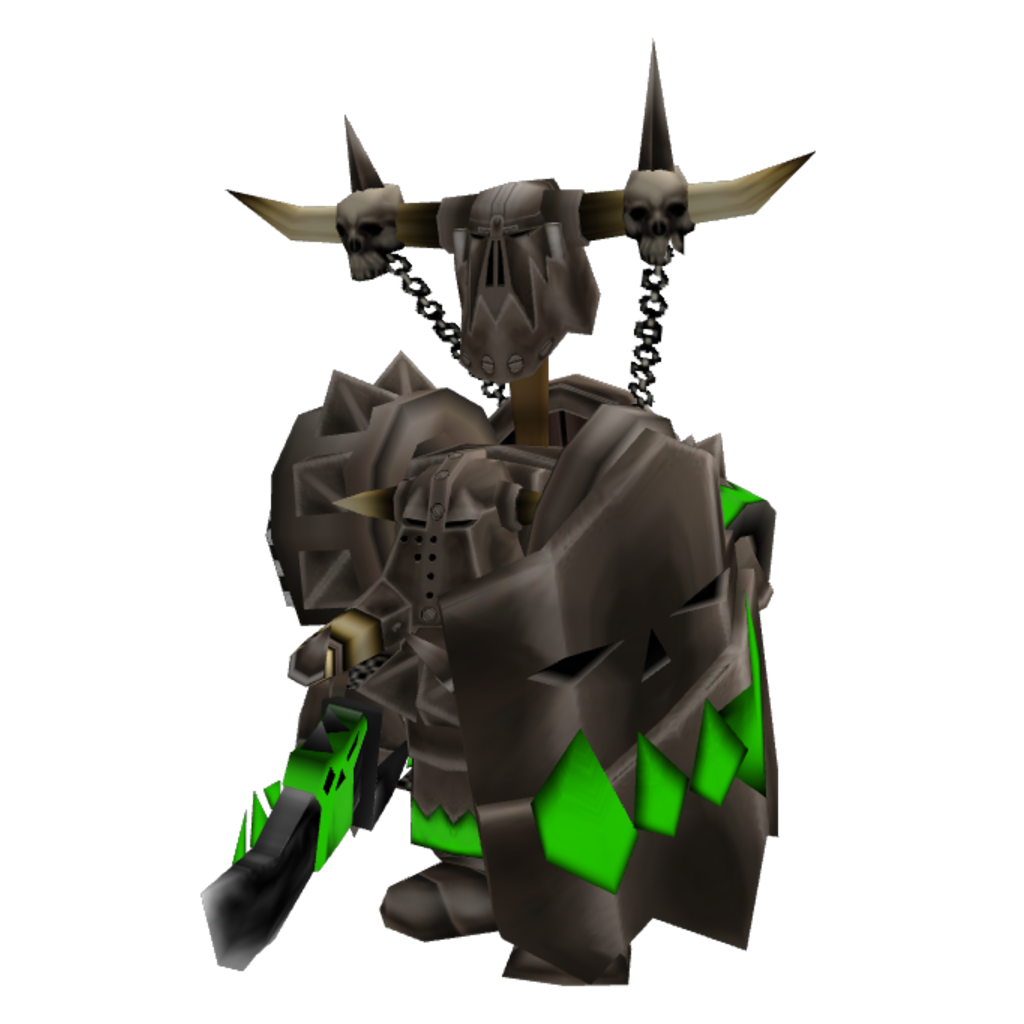
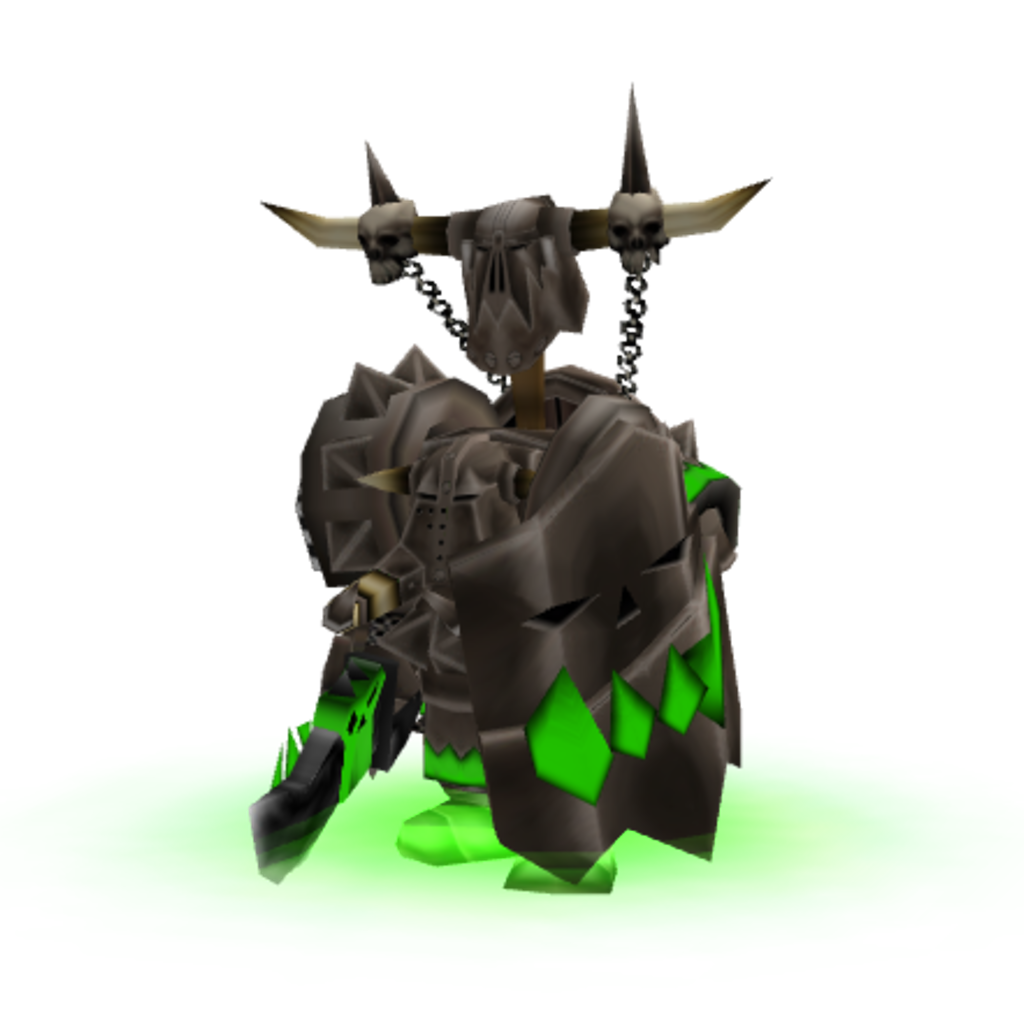
Render Black Orc Warboss (Hero) portrait with its hero glow
The Hero card reused the Warboss picture; it is now captured from the
Hero model, keeping the green hero glow. Image cache key bumped.

Claude-Session: https://claude.ai/code/session_01QFG8SimT88abGkLgQuWvt6

Changed region(s): [[0.125, 0.0312, 0.875, 0.9688]]

diff --git a/app.js b/app.js
@@ -25,7 +25,7 @@ const isGroupLead=row=>{const group=groupOf(row.id);return !group||liveVariants(
 function groupCard(group,lead){const variants=liveVariants(group),army=armies.find(a=>a.id===lead.army),href=v=>`/model/${v.row.slug||v.id}/`;const data=escape(JSON.stringify(variants.map(v=>({href:href(v),src:thumbnail(v.id),label:v.label,name:v.row.name}))));return `<article class="model-card slab has-variants" data-variants="${data}" data-index="0"><div class="variant-stage"><a class="model-open" href="${href(variants[0])}" aria-label="Open ${escape(variants[0].row.name)}"><div class="card-portrait" style="--aura:${army.colour}"><img class="variant-shot" src="${thumbnail(variants[0].id)}" alt="${escape(variants[0].row.name)}">${modelUpdateTagMarkup(lead.id)}</div></a><button type="button" class="variant-arrow prev" data-step="-1" aria-label="Previous variant">‹</button><button type="button" class="variant-arrow next" data-step="1" aria-label="Next variant">›</button><div class="variant-dots">${variants.map((v,i)=>`<button type="button" data-pick="${i}" aria-label="${escape(v.label)}" title="${escape(v.label)}" aria-pressed="${i===0}"></button>`).join('')}</div></div><div class="card-text"><a class="card-name" href="${href(variants[0])}">${escape(group.name)}</a><small class="card-author">By: ${authorLinks(lead)}</small></div></article>`;}
 function mountVariantCards(root){root.onclick=event=>{const button=event.target.closest('[data-step],[data-pick]'),card=button?.closest('[data-variants]');if(!card)return;event.preventDefault();const variants=JSON.parse(card.dataset.variants),index=button.dataset.pick!==undefined?+button.dataset.pick:(+card.dataset.index+ +button.dataset.step+variants.length)%variants.length,v=variants[index];card.dataset.index=index;const shot=card.querySelector('.variant-shot');shot.src=v.src;shot.alt=v.name;for(const link of card.querySelectorAll('.model-open,.card-name'))link.href=v.href;card.querySelector('.model-open').setAttribute('aria-label','Open '+v.name);for(const pick of card.querySelectorAll('[data-pick]'))pick.setAttribute('aria-pressed',String(+pick.dataset.pick===index));};}
 function variantTabs(row){const group=groupOf(row.id),variants=group?liveVariants(group):[];if(variants.length<2)return '';return `<div class="variant-tabs" role="tablist" aria-label="${escape(group.name)} variants">${variants.map(v=>`<a role="tab" href="/model/${v.row.slug||v.id}/" data-variant="${escape(v.row.slug||v.id)}" aria-selected="${v.id===row.id}"${v.id===row.id?' tabindex="0"':' tabindex="-1"'}><img src="${thumbnail(v.id)}" alt="" aria-hidden="true">${escape(v.label)}</a>`).join('')}</div>`;}
-const thumbnail=id=>`thumbs/unit-${id}.png?v=20261012-nurgle-champion-04`;
+const thumbnail=id=>`thumbs/unit-${id}.png?v=20261013-warboss-hero-glow`;
 const authorLinks=row=>row.authors.map(author=>`<a href="${escape(author.url)}" target="_blank" rel="noopener noreferrer">${escape(author.name)}</a>`).join(', ');
 function creditText(row,text){
  const links=(row.creditLinks||[]).filter(link=>/^https?:\/\//.test(link.url)).sort((a,b)=>b.text.length-a.text.length);

diff --git a/index.html b/index.html
@@ -19,4 +19,4 @@
     <image href="ui/lowpolyworks-cleaned-source.png" width="1695" height="951" mask="url(#lowpolyworks-character-mask)"/>
   </g>
   <image class="lowpolyworks-lettering" href="ui/lowpolyworks-header-source.png" width="1695" height="951" mask="url(#lowpolyworks-type-mask)"/>
-</svg></a><nav aria-label="Main menu"><a class="project-brand mdlxl-brand" href="/mdlxl/" aria-label="MDLxL"><img class="mdlxl-brand-icon" src="ui/mdlxl-icon.png" alt="" width="48" height="48"><span class="mdlxl-wordmark" aria-hidden="true">MDL<span>x</span>L</span></a><a class="project-brand warhammercraft-brand" href="#project/warhammercraft" aria-label="WarhammerCraft"><span class="warhammercraft-wordmark" aria-hidden="true"><img src="ui/warhammercraft-header-source.png" alt="" width="1400" height="300"></span></a></nav></header><div class="site-shell"><aside class="side-menu side-left"><nav id="army-navigation" aria-label="Army navigation"></nav></aside><main id="app" aria-live="polite"><p class="loading">Loading…</p></main><aside class="side-menu side-right" id="catalogue-summary" aria-label="Catalogue information"></aside></div><footer><span>LOWPOLYWORKS</span><div><a href="#subscribe">Model notifications</a><a href="#acknowledgements">Acknowledgements</a></div></footer><script type="module" src="app.js?v=20261013-variant-cards"></script></body></html>
+</svg></a><nav aria-label="Main menu"><a class="project-brand mdlxl-brand" href="/mdlxl/" aria-label="MDLxL"><img class="mdlxl-brand-icon" src="ui/mdlxl-icon.png" alt="" width="48" height="48"><span class="mdlxl-wordmark" aria-hidden="true">MDL<span>x</span>L</span></a><a class="project-brand warhammercraft-brand" href="#project/warhammercraft" aria-label="WarhammerCraft"><span class="warhammercraft-wordmark" aria-hidden="true"><img src="ui/warhammercraft-header-source.png" alt="" width="1400" height="300"></span></a></nav></header><div class="site-shell"><aside class="side-menu side-left"><nav id="army-navigation" aria-label="Army navigation"></nav></aside><main id="app" aria-live="polite"><p class="loading">Loading…</p></main><aside class="side-menu side-right" id="catalogue-summary" aria-label="Catalogue information"></aside></div><footer><span>LOWPOLYWORKS</span><div><a href="#subscribe">Model notifications</a><a href="#acknowledgements">Acknowledgements</a></div></footer><script type="module" src="app.js?v=20261013-warboss-hero-glow"></script></body></html>

diff --git a/mdlxl/index.html b/mdlxl/index.html
@@ -27,4 +27,4 @@
     <image href="ui/lowpolyworks-cleaned-source.png" width="1695" height="951" mask="url(#lowpolyworks-character-mask)"/>
   </g>
   <image class="lowpolyworks-lettering" href="ui/lowpolyworks-header-source.png" width="1695" height="951" mask="url(#lowpolyworks-type-mask)"/>
-</svg></a><nav aria-label="Main menu"><a class="project-brand mdlxl-brand" href="/mdlxl/" aria-label="MDLxL"><img class="mdlxl-brand-icon" src="ui/mdlxl-icon.png" alt="" width="48" height="48"><span class="mdlxl-wordmark" aria-hidden="true">MDL<span>x</span>L</span></a><a class="project-brand warhammercraft-brand" href="#project/warhammercraft" aria-label="WarhammerCraft"><span class="warhammercraft-wordmark" aria-hidden="true"><img src="ui/warhammercraft-header-source.png" alt="" width="1400" height="300"></span></a></nav></header><div class="site-shell"><aside class="side-menu side-left"><nav id="army-navigation" aria-label="Army navigation"></nav></aside><main id="app" aria-live="polite"><p class="loading">Loading…</p></main><aside class="side-menu side-right" id="catalogue-summary" aria-label="Catalogue information"></aside></div><footer><span>LOWPOLYWORKS</span><div><a href="#subscribe">Model notifications</a><a href="#acknowledgements">Acknowledgements</a></div></footer><script type="module" src="app.js?v=20261013-variant-cards"></script></body></html>
+</svg></a><nav aria-label="Main menu"><a class="project-brand mdlxl-brand" href="/mdlxl/" aria-label="MDLxL"><img class="mdlxl-brand-icon" src="ui/mdlxl-icon.png" alt="" width="48" height="48"><span class="mdlxl-wordmark" aria-hidden="true">MDL<span>x</span>L</span></a><a class="project-brand warhammercraft-brand" href="#project/warhammercraft" aria-label="WarhammerCraft"><span class="warhammercraft-wordmark" aria-hidden="true"><img src="ui/warhammercraft-header-source.png" alt="" width="1400" height="300"></span></a></nav></header><div class="site-shell"><aside class="side-menu side-left"><nav id="army-navigation" aria-label="Army navigation"></nav></aside><main id="app" aria-live="polite"><p class="loading">Loading…</p></main><aside class="side-menu side-right" id="catalogue-summary" aria-label="Catalogue information"></aside></div><footer><span>LOWPOLYWORKS</span><div><a href="#subscribe">Model notifications</a><a href="#acknowledgements">Acknowledgements</a></div></footer><script type="module" src="app.js?v=20261013-warboss-hero-glow"></script></body></html>

diff --git a/model/aspiring/index.html b/model/aspiring/index.html
@@ -34,4 +34,4 @@
     <image href="ui/lowpolyworks-cleaned-source.png" width="1695" height="951" mask="url(#lowpolyworks-character-mask)"/>
   </g>
   <image class="lowpolyworks-lettering" href="ui/lowpolyworks-header-source.png" width="1695" height="951" mask="url(#lowpolyworks-type-mask)"/>
-</svg></a><nav aria-label="Main menu"><a class="project-brand mdlxl-brand" href="/mdlxl/" aria-label="MDLxL"><img class="mdlxl-brand-icon" src="ui/mdlxl-icon.png" alt="" width="48" height="48"><span class="mdlxl-wordmark" aria-hidden="true">MDL<span>x</span>L</span></a><a class="project-brand warhammercraft-brand" href="#project/warhammercraft" aria-label="WarhammerCraft"><span class="warhammercraft-wordmark" aria-hidden="true"><img src="ui/warhammercraft-header-source.png" alt="" width="1400" height="300"></span></a></nav></header><div class="site-shell"><aside class="side-menu side-left"><nav id="army-navigation" aria-label="Army navigation"></nav></aside><main id="app" aria-live="polite"><p class="loading">Loading…</p></main><aside class="side-menu side-right" id="catalogue-summary" aria-label="Catalogue information"></aside></div><footer><span>LOWPOLYWORKS</span><div><a href="#subscribe">Model notifications</a><a href="#acknowledgements">Acknowledgements</a></div></footer><script type="module" src="app.js?v=20261013-variant-cards"></script></body></html>
+</svg></a><nav aria-label="Main menu"><a class="project-brand mdlxl-brand" href="/mdlxl/" aria-label="MDLxL"><img class="mdlxl-brand-icon" src="ui/mdlxl-icon.png" alt="" width="48" height="48"><span class="mdlxl-wordmark" aria-hidden="true">MDL<span>x</span>L</span></a><a class="project-brand warhammercraft-brand" href="#project/warhammercraft" aria-label="WarhammerCraft"><span class="warhammercraft-wordmark" aria-hidden="true"><img src="ui/warhammercraft-header-source.png" alt="" width="1400" height="300"></span></a></nav></header><div class="site-shell"><aside class="side-menu side-left"><nav id="army-navigation" aria-label="Army navigation"></nav></aside><main id="app" aria-live="polite"><p class="loading">Loading…</p></main><aside class="side-menu side-right" id="catalogue-summary" aria-label="Catalogue information"></aside></div><footer><span>LOWPOLYWORKS</span><div><a href="#subscribe">Model notifications</a><a href="#acknowledgements">Acknowledgements</a></div></footer><script type="module" src="app.js?v=20261013-warboss-hero-glow"></script></body></html>

diff --git a/model/blood-dragon/index.html b/model/blood-dragon/index.html
@@ -34,4 +34,4 @@
     <image href="ui/lowpolyworks-cleaned-source.png" width="1695" height="951" mask="url(#lowpolyworks-character-mask)"/>
   </g>
   <image class="lowpolyworks-lettering" href="ui/lowpolyworks-header-source.png" width="1695" height="951" mask="url(#lowpolyworks-type-mask)"/>
-</svg></a><nav aria-label="Main menu"><a class="project-brand mdlxl-brand" href="/mdlxl/" aria-label="MDLxL"><img class="mdlxl-brand-icon" src="ui/mdlxl-icon.png" alt="" width="48" height="48"><span class="mdlxl-wordmark" aria-hidden="true">MDL<span>x</span>L</span></a><a class="project-brand warhammercraft-brand" href="#project/warhammercraft" aria-label="WarhammerCraft"><span class="warhammercraft-wordmark" aria-hidden="true"><img src="ui/warhammercraft-header-source.png" alt="" width="1400" height="300"></span></a></nav></header><div class="site-shell"><aside class="side-menu side-left"><nav id="army-navigation" aria-label="Army navigation"></nav></aside><main id="app" aria-live="polite"><p class="loading">Loading…</p></main><aside class="side-menu side-right" id="catalogue-summary" aria-label="Catalogue information"></aside></div><footer><span>LOWPOLYWORKS</span><div><a href="#subscribe">Model notifications</a><a href="#acknowledgements">Acknowledgements</a></div></footer><script type="module" src="app.js?v=20261013-variant-cards"></script></body></html>
+</svg></a><nav aria-label="Main menu"><a class="project-brand mdlxl-brand" href="/mdlxl/" aria-label="MDLxL"><img class="mdlxl-brand-icon" src="ui/mdlxl-icon.png" alt="" width="48" height="48"><span class="mdlxl-wordmark" aria-hidden="true">MDL<span>x</span>L</span></a><a class="project-brand warhammercraft-brand" href="#project/warhammercraft" aria-label="WarhammerCraft"><span class="warhammercraft-wordmark" aria-hidden="true"><img src="ui/warhammercraft-header-source.png" alt="" width="1400" height="300"></span></a></nav></header><div class="site-shell"><aside class="side-menu side-left"><nav id="army-navigation" aria-label="Army navigation"></nav></aside><main id="app" aria-live="polite"><p class="loading">Loading…</p></main><aside class="side-menu side-right" id="catalogue-summary" aria-label="Catalogue information"></aside></div><footer><span>LOWPOLYWORKS</span><div><a href="#subscribe">Model notifications</a><a href="#acknowledgements">Acknowledgements</a></div></footer><script type="module" src="app.js?v=20261013-warboss-hero-glow"></script></body></html>

diff --git a/model/bretonnian-archer/index.html b/model/bretonnian-archer/index.html
@@ -34,4 +34,4 @@
     <image href="ui/lowpolyworks-cleaned-source.png" width="1695" height="951" mask="url(#lowpolyworks-character-mask)"/>
   </g>
   <image class="lowpolyworks-lettering" href="ui/lowpolyworks-header-source.png" width="1695" height="951" mask="url(#lowpolyworks-type-mask)"/>
-</svg></a><nav aria-label="Main menu"><a class="project-brand mdlxl-brand" href="/mdlxl/" aria-label="MDLxL"><img class="mdlxl-brand-icon" src="ui/mdlxl-icon.png" alt="" width="48" height="48"><span class="mdlxl-wordmark" aria-hidden="true">MDL<span>x</span>L</span></a><a class="project-brand warhammercraft-brand" href="#project/warhammercraft" aria-label="WarhammerCraft"><span class="warhammercraft-wordmark" aria-hidden="true"><img src="ui/warhammercraft-header-source.png" alt="" width="1400" height="300"></span></a></nav></header><div class="site-shell"><aside class="side-menu side-left"><nav id="army-navigation" aria-label="Army navigation"></nav></aside><main id="app" aria-live="polite"><p class="loading">Loading…</p></main><aside class="side-menu side-right" id="catalogue-summary" aria-label="Catalogue information"></aside></div><footer><span>LOWPOLYWORKS</span><div><a href="#subscribe">Model notifications</a><a href="#acknowledgements">Acknowledgements</a></div></footer><script type="module" src="app.js?v=20261013-variant-cards"></script></body></html>
+</svg></a><nav aria-label="Main menu"><a class="project-brand mdlxl-brand" href="/mdlxl/" aria-label="MDLxL"><img class="mdlxl-brand-icon" src="ui/mdlxl-icon.png" alt="" width="48" height="48"><span class="mdlxl-wordmark" aria-hidden="true">MDL<span>x</span>L</span></a><a class="project-brand warhammercraft-brand" href="#project/warhammercraft" aria-label="WarhammerCraft"><span class="warhammercraft-wordmark" aria-hidden="true"><img src="ui/warhammercraft-header-source.png" alt="" width="1400" height="300"></span></a></nav></header><div class="site-shell"><aside class="side-menu side-left"><nav id="army-navigation" aria-label="Army navigation"></nav></aside><main id="app" aria-live="polite"><p class="loading">Loading…</p></main><aside class="side-menu side-right" id="catalogue-summary" aria-label="Catalogue information"></aside></div><footer><span>LOWPOLYWORKS</span><div><a href="#subscribe">Model notifications</a><a href="#acknowledgements">Acknowledgements</a></div></footer><script type="module" src="app.js?v=20261013-warboss-hero-glow"></script></body></html>

diff --git a/model/bretonnian-pikeman/index.html b/model/bretonnian-pikeman/index.html
@@ -34,4 +34,4 @@
     <image href="ui/lowpolyworks-cleaned-source.png" width="1695" height="951" mask="url(#lowpolyworks-character-mask)"/>
   </g>
   <image class="lowpolyworks-lettering" href="ui/lowpolyworks-header-source.png" width="1695" height="951" mask="url(#lowpolyworks-type-mask)"/>
-</svg></a><nav aria-label="Main menu"><a class="project-brand mdlxl-brand" href="/mdlxl/" aria-label="MDLxL"><img class="mdlxl-brand-icon" src="ui/mdlxl-icon.png" alt="" width="48" height="48"><span class="mdlxl-wordmark" aria-hidden="true">MDL<span>x</span>L</span></a><a class="project-brand warhammercraft-brand" href="#project/warhammercraft" aria-label="WarhammerCraft"><span class="warhammercraft-wordmark" aria-hidden="true"><img src="ui/warhammercraft-header-source.png" alt="" width="1400" height="300"></span></a></nav></header><div class="site-shell"><aside class="side-menu side-left"><nav id="army-navigation" aria-label="Army navigation"></nav></aside><main id="app" aria-live="polite"><p class="loading">Loading…</p></main><aside class="side-menu side-right" id="catalogue-summary" aria-label="Catalogue information"></aside></div><footer><span>LOWPOLYWORKS</span><div><a href="#subscribe">Model notifications</a><a href="#acknowledgements">Acknowledgements</a></div></footer><script type="module" src="app.js?v=20261013-variant-cards"></script></body></html>
+</svg></a><nav aria-label="Main menu"><a class="project-brand mdlxl-brand" href="/mdlxl/" aria-label="MDLxL"><img class="mdlxl-brand-icon" src="ui/mdlxl-icon.png" alt="" width="48" height="48"><span class="mdlxl-wordmark" aria-hidden="true">MDL<span>x</span>L</span></a><a class="project-brand warhammercraft-brand" href="#project/warhammercraft" aria-label="WarhammerCraft"><span class="warhammercraft-wordmark" aria-hidden="true"><img src="ui/warhammercraft-header-source.png" alt="" width="1400" height="300"></span></a></nav></header><div class="site-shell"><aside class="side-menu side-left"><nav id="army-navigation" aria-label="Army navigation"></nav></aside><main id="app" aria-live="polite"><p class="loading">Loading…</p></main><aside class="side-menu side-right" id="catalogue-summary" aria-label="Catalogue information"></aside></div><footer><span>LOWPOLYWORKS</span><div><a href="#subscribe">Model notifications</a><a href="#acknowledgements">Acknowledgements</a></div></footer><script type="module" src="app.js?v=20261013-warboss-hero-glow"></script></body></html>

diff --git a/model/bretonnian-swordsman/index.html b/model/bretonnian-swordsman/index.html
@@ -34,4 +34,4 @@
     <image href="ui/lowpolyworks-cleaned-source.png" width="1695" height="951" mask="url(#lowpolyworks-character-mask)"/>
   </g>
   <image class="lowpolyworks-lettering" href="ui/lowpolyworks-header-source.png" width="1695" height="951" mask="url(#lowpolyworks-type-mask)"/>
-</svg></a><nav aria-label="Main menu"><a class="project-brand mdlxl-brand" href="/mdlxl/" aria-label="MDLxL"><img class="mdlxl-brand-icon" src="ui/mdlxl-icon.png" alt="" width="48" height="48"><span class="mdlxl-wordmark" aria-hidden="true">MDL<span>x</span>L</span></a><a class="project-brand warhammercraft-brand" href="#project/warhammercraft" aria-label="WarhammerCraft"><span class="warhammercraft-wordmark" aria-hidden="true"><img src="ui/warhammercraft-header-source.png" alt="" width="1400" height="300"></span></a></nav></header><div class="site-shell"><aside class="side-menu side-left"><nav id="army-navigation" aria-label="Army navigation"></nav></aside><main id="app" aria-live="polite"><p class="loading">Loading…</p></main><aside class="side-menu side-right" id="catalogue-summary" aria-label="Catalogue information"></aside></div><footer><span>LOWPOLYWORKS</span><div><a href="#subscribe">Model notifications</a><a href="#acknowledgements">Acknowledgements</a></div></footer><script type="module" src="app.js?v=20261013-variant-cards"></script></body></html>
+</svg></a><nav aria-label="Main menu"><a class="project-brand mdlxl-brand" href="/mdlxl/" aria-label="MDLxL"><img class="mdlxl-brand-icon" src="ui/mdlxl-icon.png" alt="" width="48" height="48"><span class="mdlxl-wordmark" aria-hidden="true">MDL<span>x</span>L</span></a><a class="project-brand warhammercraft-brand" href="#project/warhammercraft" aria-label="WarhammerCraft"><span class="warhammercraft-wordmark" aria-hidden="true"><img src="ui/warhammercraft-header-source.png" alt="" width="1400" height="300"></span></a></nav></header><div class="site-shell"><aside class="side-menu side-left"><nav id="army-navigation" aria-label="Army navigation"></nav></aside><main id="app" aria-live="polite"><p class="loading">Loading…</p></main><aside class="side-menu side-right" id="catalogue-summary" aria-label="Catalogue information"></aside></div><footer><span>LOWPOLYWORKS</span><div><a href="#subscribe">Model notifications</a><a href="#acknowledgements">Acknowledgements</a></div></footer><script type="module" src="app.js?v=20261013-warboss-hero-glow"></script></body></html>

diff --git a/model/chaos-ogre/index.html b/model/chaos-ogre/index.html
@@ -34,4 +34,4 @@
     <image href="ui/lowpolyworks-cleaned-source.png" width="1695" height="951" mask="url(#lowpolyworks-character-mask)"/>
   </g>
   <image class="lowpolyworks-lettering" href="ui/lowpolyworks-header-source.png" width="1695" height="951" mask="url(#lowpolyworks-type-mask)"/>
-</svg></a><nav aria-label="Main menu"><a class="project-brand mdlxl-brand" href="/mdlxl/" aria-label="MDLxL"><img class="mdlxl-brand-icon" src="ui/mdlxl-icon.png" alt="" width="48" height="48"><span class="mdlxl-wordmark" aria-hidden="true">MDL<span>x</span>L</span></a><a class="project-brand warhammercraft-brand" href="#project/warhammercraft" aria-label="WarhammerCraft"><span class="warhammercraft-wordmark" aria-hidden="true"><img src="ui/warhammercraft-header-source.png" alt="" width="1400" height="300"></span></a></nav></header><div class="site-shell"><aside class="side-menu side-left"><nav id="army-navigation" aria-label="Army navigation"></nav></aside><main id="app" aria-live="polite"><p class="loading">Loading…</p></main><aside class="side-menu side-right" id="catalogue-summary" aria-label="Catalogue information"></aside></div><footer><span>LOWPOLYWORKS</span><div><a href="#subscribe">Model notifications</a><a href="#acknowledgements">Acknowledgements</a></div></footer><script type="module" src="app.js?v=20261013-variant-cards"></script></body></html>
+</svg></a><nav aria-label="Main menu"><a class="project-brand mdlxl-brand" href="/mdlxl/" aria-label="MDLxL"><img class="mdlxl-brand-icon" src="ui/mdlxl-icon.png" alt="" width="48" height="48"><span class="mdlxl-wordmark" aria-hidden="true">MDL<span>x</span>L</span></a><a class="project-brand warhammercraft-brand" href="#project/warhammercraft" aria-label="WarhammerCraft"><span class="warhammercraft-wordmark" aria-hidden="true"><img src="ui/warhammercraft-header-source.png" alt="" width="1400" height="300"></span></a></nav></header><div class="site-shell"><aside class="side-menu side-left"><nav id="army-navigation" aria-label="Army navigation"></nav></aside><main id="app" aria-live="polite"><p class="loading">Loading…</p></main><aside class="side-menu side-right" id="catalogue-summary" aria-label="Catalogue information"></aside></div><footer><span>LOWPOLYWORKS</span><div><a href="#subscribe">Model notifications</a><a href="#acknowledgements">Acknowledgements</a></div></footer><script type="module" src="app.js?v=20261013-warboss-hero-glow"></script></body></html>

diff --git a/model/elector-count/index.html b/model/elector-count/index.html
@@ -34,4 +34,4 @@
     <image href="ui/lowpolyworks-cleaned-source.png" width="1695" height="951" mask="url(#lowpolyworks-character-mask)"/>
   </g>
   <image class="lowpolyworks-lettering" href="ui/lowpolyworks-header-source.png" width="1695" height="951" mask="url(#lowpolyworks-type-mask)"/>
-</svg></a><nav aria-label="Main menu"><a class="project-brand mdlxl-brand" href="/mdlxl/" aria-label="MDLxL"><img class="mdlxl-brand-icon" src="ui/mdlxl-icon.png" alt="" width="48" height="48"><span class="mdlxl-wordmark" aria-hidden="true">MDL<span>x</span>L</span></a><a class="project-brand warhammercraft-brand" href="#project/warhammercraft" aria-label="WarhammerCraft"><span class="warhammercraft-wordmark" aria-hidden="true"><img src="ui/warhammercraft-header-source.png" alt="" width="1400" height="300"></span></a></nav></header><div class="site-shell"><aside class="side-menu side-left"><nav id="army-navigation" aria-label="Army navigation"></nav></aside><main id="app" aria-live="polite"><p class="loading">Loading…</p></main><aside class="side-menu side-right" id="catalogue-summary" aria-label="Catalogue information"></aside></div><footer><span>LOWPOLYWORKS</span><div><a href="#subscribe">Model notifications</a><a href="#acknowledgements">Acknowledgements</a></div></footer><script type="module" src="app.js?v=20261013-variant-cards"></script></body></html>
+</svg></a><nav aria-label="Main menu"><a class="project-brand mdlxl-brand" href="/mdlxl/" aria-label="MDLxL"><img class="mdlxl-brand-icon" src="ui/mdlxl-icon.png" alt="" width="48" height="48"><span class="mdlxl-wordmark" aria-hidden="true">MDL<span>x</span>L</span></a><a class="project-brand warhammercraft-brand" href="#project/warhammercraft" aria-label="WarhammerCraft"><span class="warhammercraft-wordmark" aria-hidden="true"><img src="ui/warhammercraft-header-source.png" alt="" width="1400" height="300"></span></a></nav></header><div class="site-shell"><aside class="side-menu side-left"><nav id="army-navigation" aria-label="Army navigation"></nav></aside><main id="app" aria-live="polite"><p class="loading">Loading…</p></main><aside class="side-menu side-right" id="catalogue-summary" aria-label="Catalogue information"></aside></div><footer><span>LOWPOLYWORKS</span><div><a href="#subscribe">Model notifications</a><a href="#acknowledgements">Acknowledgements</a></div></footer><script type="module" src="app.js?v=20261013-warboss-hero-glow"></script></body></html>

diff --git a/model/elite-steam-tank/index.html b/model/elite-steam-tank/index.html
@@ -34,4 +34,4 @@
     <image href="ui/lowpolyworks-cleaned-source.png" width="1695" height="951" mask="url(#lowpolyworks-character-mask)"/>
   </g>
   <image class="lowpolyworks-lettering" href="ui/lowpolyworks-header-source.png" width="1695" height="951" mask="url(#lowpolyworks-type-mask)"/>
-</svg></a><nav aria-label="Main menu"><a class="project-brand mdlxl-brand" href="/mdlxl/" aria-label="MDLxL"><img class="mdlxl-brand-icon" src="ui/mdlxl-icon.png" alt="" width="48" height="48"><span class="mdlxl-wordmark" aria-hidden="true">MDL<span>x</span>L</span></a><a class="project-brand warhammercraft-brand" href="#project/warhammercraft" aria-label="WarhammerCraft"><span class="warhammercraft-wordmark" aria-hidden="true"><img src="ui/warhammercraft-header-source.png" alt="" width="1400" height="300"></span></a></nav></header><div class="site-shell"><aside class="side-menu side-left"><nav id="army-navigation" aria-label="Army navigation"></nav></aside><main id="app" aria-live="polite"><p class="loading">Loading…</p></main><aside class="side-menu side-right" id="catalogue-summary" aria-label="Catalogue information"></aside></div><footer><span>LOWPOLYWORKS</span><div><a href="#subscribe">Model notifications</a><a href="#acknowledgements">Acknowledgements</a></div></footer><script type="module" src="app.js?v=20261013-variant-cards"></script></body></html>
+</svg></a><nav aria-label="Main menu"><a class="project-brand mdlxl-brand" href="/mdlxl/" aria-label="MDLxL"><img class="mdlxl-brand-icon" src="ui/mdlxl-icon.png" alt="" width="48" height="48"><span class="mdlxl-wordmark" aria-hidden="true">MDL<span>x</span>L</span></a><a class="project-brand warhammercraft-brand" href="#project/warhammercraft" aria-label="WarhammerCraft"><span class="warhammercraft-wordmark" aria-hidden="true"><img src="ui/warhammercraft-header-source.png" alt="" width="1400" height="300"></span></a></nav></header><div class="site-shell"><aside class="side-menu side-left"><nav id="army-navigation" aria-label="Army navigation"></nav></aside><main id="app" aria-live="polite"><p class="loading">Loading…</p></main><aside class="side-menu side-right" id="catalogue-summary" aria-label="Catalogue information"></aside></div><footer><span>LOWPOLYWORKS</span><div><a href="#subscribe">Model notifications</a><a href="#acknowledgements">Acknowledgements</a></div></footer><script type="module" src="app.js?v=20261013-warboss-hero-glow"></script></body></html>

diff --git a/model/empire-captain/index.html b/model/empire-captain/index.html
@@ -34,4 +34,4 @@
     <image href="ui/lowpolyworks-cleaned-source.png" width="1695" height="951" mask="url(#lowpolyworks-character-mask)"/>
   </g>
   <image class="lowpolyworks-lettering" href="ui/lowpolyworks-header-source.png" width="1695" height="951" mask="url(#lowpolyworks-type-mask)"/>
-</svg></a><nav aria-label="Main menu"><a class="project-brand mdlxl-brand" href="/mdlxl/" aria-label="MDLxL"><img class="mdlxl-brand-icon" src="ui/mdlxl-icon.png" alt="" width="48" height="48"><span class="mdlxl-wordmark" aria-hidden="true">MDL<span>x</span>L</span></a><a class="project-brand warhammercraft-brand" href="#project/warhammercraft" aria-label="WarhammerCraft"><span class="warhammercraft-wordmark" aria-hidden="true"><img src="ui/warhammercraft-header-source.png" alt="" width="1400" height="300"></span></a></nav></header><div class="site-shell"><aside class="side-menu side-left"><nav id="army-navigation" aria-label="Army navigation"></nav></aside><main id="app" aria-live="polite"><p class="loading">Loading…</p></main><aside class="side-menu side-right" id="catalogue-summary" aria-label="Catalogue information"></aside></div><footer><span>LOWPOLYWORKS</span><div><a href="#subscribe">Model notifications</a><a href="#acknowledgements">Acknowledgements</a></div></footer><script type="module" src="app.js?v=20261013-variant-cards"></script></body></html>
+</svg></a><nav aria-label="Main menu"><a class="project-brand mdlxl-brand" href="/mdlxl/" aria-label="MDLxL"><img class="mdlxl-brand-icon" src="ui/mdlxl-icon.png" alt="" width="48" height="48"><span class="mdlxl-wordmark" aria-hidden="true">MDL<span>x</span>L</span></a><a class="project-brand warhammercraft-brand" href="#project/warhammercraft" aria-label="WarhammerCraft"><span class="warhammercraft-wordmark" aria-hidden="true"><img src="ui/warhammercraft-header-source.png" alt="" width="1400" height="300"></span></a></nav></header><div class="site-shell"><aside class="side-menu side-left"><nav id="army-navigation" aria-label="Army navigation"></nav></aside><main id="app" aria-live="polite"><p class="loading">Loading…</p></main><aside class="side-menu side-right" id="catalogue-summary" aria-label="Catalogue information"></aside></div><footer><span>LOWPOLYWORKS</span><div><a href="#subscribe">Model notifications</a><a href="#acknowledgements">Acknowledgements</a></div></footer><script type="module" src="app.js?v=20261013-warboss-hero-glow"></script></body></html>
